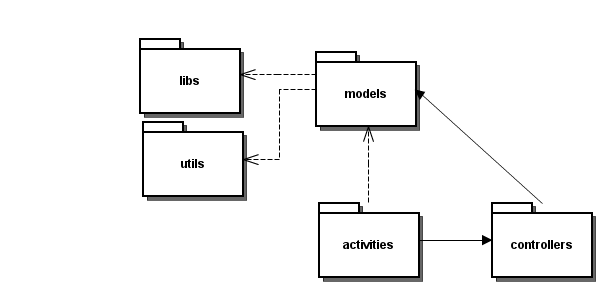
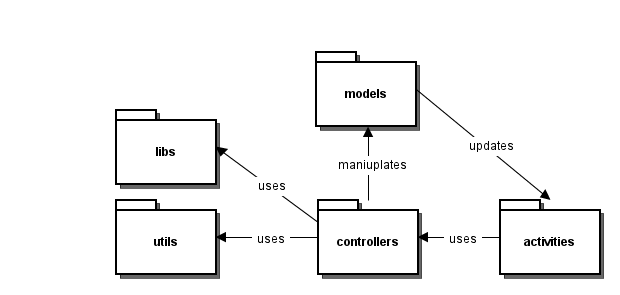
Small changes.

diff --git a/docs/report/case.tex b/docs/report/case.tex
@@ -5,10 +5,11 @@ Since no library with Android support currently exist it was decided to use the 
 \section{Introduction}
 At the time of writing no research has been done on using motion game controllers as peripherals in a smart-phone based bio-feedback system. In order to answer the research questions posed in this report it will be necessary to create a simple but working prototype of the aforementioned system. The equipment used to realize the system will be a rooted HTC Desire HD \cite{desireHdSpecs} running CyanogenMod 7 and Wii Remotes with the Motion Plus extension. The application will be created using the Android SDK, Java and the Motej library.
 
+
 %Write about why we chose motej?
 
 \section{Software Architecture}
-In this section contains an explination and documentation of the various software architectural choices.
+In this section contains an explanation and documentation of the various software architectural choices.
 
 The two main focuses when creating the architecture was \emph{modifiability} and \emph{usability}. Modifiability was important to insure the ability to replace the Wii remote with other senors without major changes in the source code. Though the main goal of this project does not include the creation of a complex graphical user interface, usability was still considered a priority for the source code to be reused in future work. 
 
@@ -81,12 +82,15 @@ Using the discussed patterns as a basis, the following package diagram shown in 
 \end{figure}
 
 \begin{description}
-	\item[libs] Contains the library classes used by the project. Currently only contains the java.swing.event.EventListenerList which is used by Motej and Motejx. This class is not included in the standard android packages because swing is not part of android.
-	\item[utils] The modified Motej library, our implementation of the MadgwickAHRS algorithm and other help classes resides here. The application uses these classes to update the current state of the Wii remote. 
+	\item[libs] Contains the library classes used by the project. Currently only contains the java.swing.event.EventListenerList, which is used by Motea. This class is not included in the standard android packages because swing is not part of android.
+	\item[utils] The modified Motej library (Modea), our implementation of the MadgwickAHRS algorithm resides here. Motea generates sensor events, and the MadgwickAHRS algorithm is used to calculate orientation.
 	\item[modles] Classes holding the state of the Wii remote are contained here.
-	\item[activites] Holds the Android activitiy classes.
-	\item[controller] Controller classes for interacting with the model are put here.
+	\item[activites] Holds the Android activitiy classes. The MainActivity class starts the application and handles Android activity events. The CubeView class is used to generate a 3D-model illustrating the orientation of the connected Wii remote.
+	\item[controller] Contains controller classes for interacting with the models and the Wii remote.
 \end{description}
+
+\subsection{Data flow}
+
 
 \section{Limitations}
 %Se på dette avsnittet knut. Tror hele må skriver på nytt hvor avsnittene under er merget og forklart bedre
